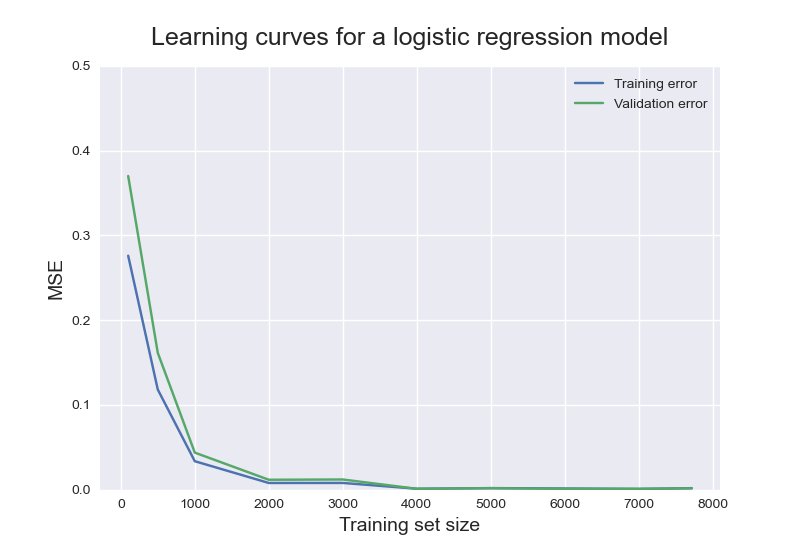
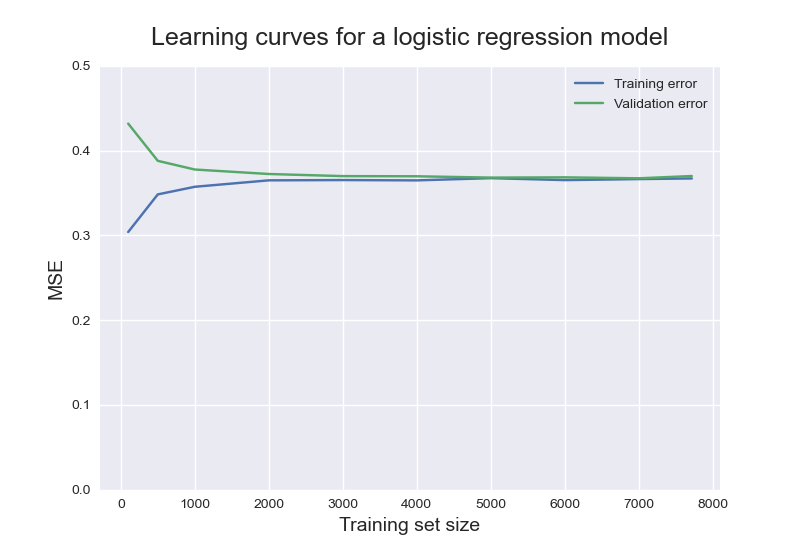
Generating different figures

diff --git a/driver.py b/driver.py
@@ -8,8 +8,8 @@ from LogisticRegression import LogReg
 if __name__ == '__main__':
 
     # --- Preprocessing ---
-    #rawPatientDF = DriverHelper.getRawPatientDF()
-    #cleanPatientDF = DriverHelper.cleanRawData(rawPatientDF)
+    rawPatientDF = DriverHelper.getRawPatientDF()
+    cleanPatientDF = DriverHelper.cleanRawData(rawPatientDF)
 
     # --- Pattern Mining ---
     #cleanPatientDF = DriverHelper.getCleanPatientDF()
@@ -17,7 +17,7 @@ if __name__ == '__main__':
     #rules = DriverHelper.getReadmittedRulesFromFile()
 
     # --- Predictive Modeling ---
-    cleanPatientDF = DriverHelper.getCleanPatientDF()
+    #cleanPatientDF = DriverHelper.getCleanPatientDF()
     cleanPatientDF = DataUtil.encodeForModeling(cleanPatientDF)
 
     kernelToUse = 'rbf' #gaussian
@@ -25,9 +25,10 @@ if __name__ == '__main__':
     chosenC = 35
     chosenS = 1
 
-    #SVM.getLearningCurve(cleanPatientDF, 45, kernelToUse, './Graphs/SVMLearningCurve1.png')
+    SVM.classify(cleanPatientDF, chosenC, chosenS, kernelToUse, testValuePercent, True, True)
+    #SVM.getLearningCurve(cleanPatientDF, 40, kernelToUse, './Graphs/SVMLearningCurve2.png')
     #average = SVM.testNIterations(cleanPatientDF, chosenC, chosenS, kernelToUse, testValuePercent, 5)
     #print("Average: ", SVM.findAverage(average))
 
-    print('Accuracy:  {0}\n'.format(LogReg.classify(cleanPatientDF)))
-    LogReg.getLearningCurve(cleanPatientDF, './Graphs/LogRegLearningCurve.png')
+    #print('Accuracy:  {0}\n'.format(LogReg.classify(cleanPatientDF)))
+    #LogReg.getLearningCurve(cleanPatientDF, './Graphs/LogRegLearningCurve2.png')
